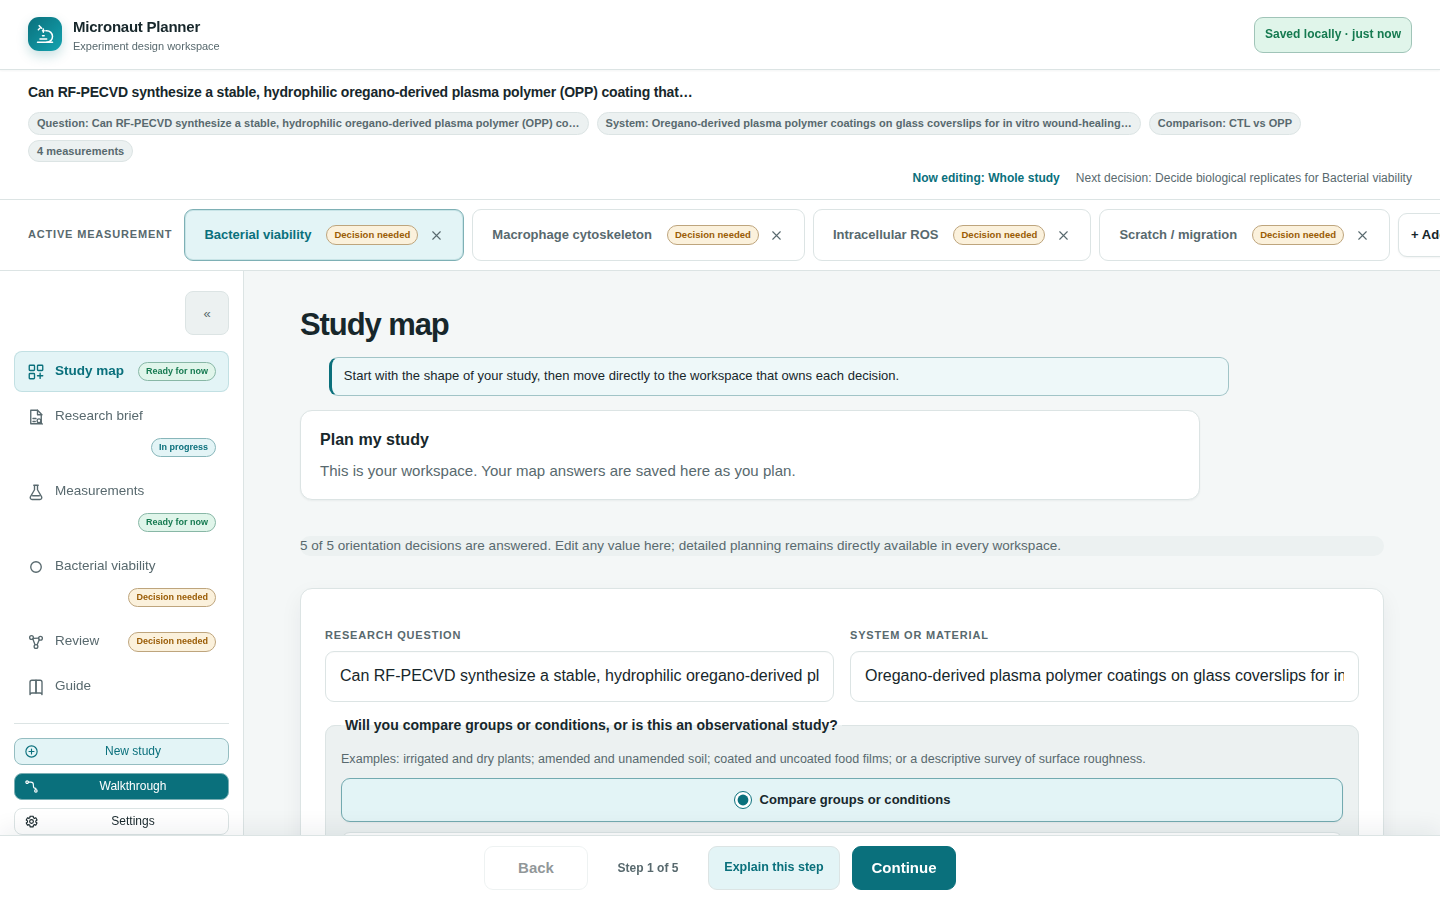
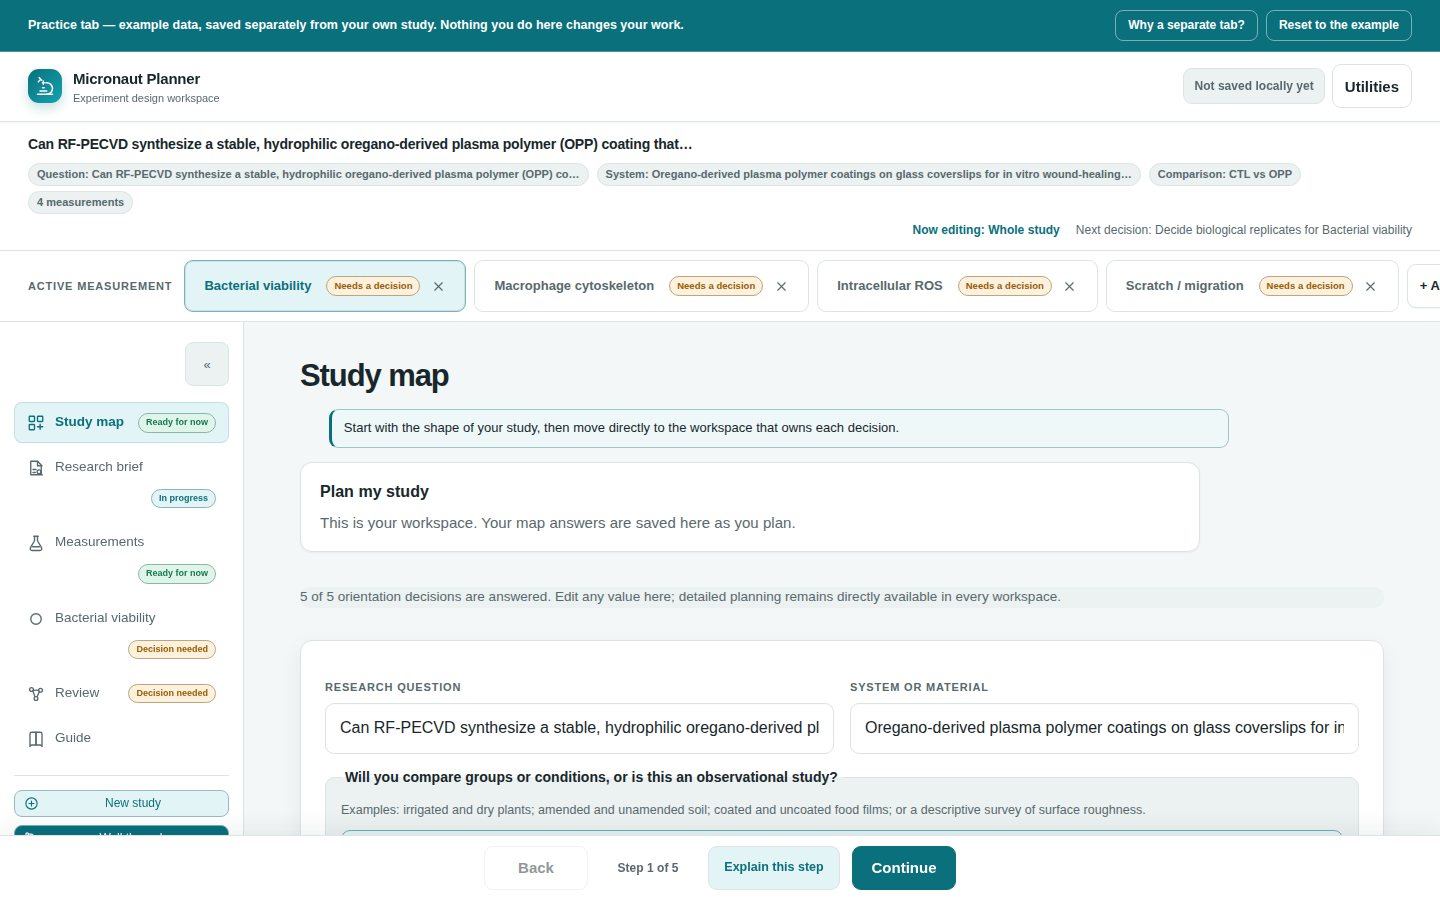
docs: regenerate reference screenshots from the practice tab
The capture tool now runs against ?demo=1, which is where the example study
lives, so all eleven reference images are recaptured from there. Every one
carries the practice-tab banner across the top. That is not tooling noise:
the example only ever opens in that tab now, so it is what a reader
following the manual actually sees.

Regenerating surfaced a real wart, which is fixed here rather than
photographed: inside the practice tab, Study map still offered "Explore a
completed example" -- inviting the reader to open a practice tab while
standing in one, looking at the very example it offered to show them. It
sat in the middle of the first capture. The Utilities menu item was gated
for exactly this when the practice tab landed; this card was missed.
homeStep.render now takes the same injected isSandbox that renderShell
does and skips the card there.

Covered by a render-level test, which is a departure this file's header
explains it avoids -- every other test here drives the exported helpers
directly because render() also builds a real Study map. The gate lives in
render() itself, so there is nowhere else to observe it, and the DOM stub
carries createStudyMap fine with an emptyExperiment() store.
Mutation-tested: removing the gate fails it.

Two stale docs corrected while here:
- docs/images/README.md still said images were captured by clicking Study
  map's "Open the example study" link, which has not existed since the
[…]

diff --git a/web/tests/homeStep.test.js b/web/tests/homeStep.test.js
@@ -11,7 +11,9 @@
 // (one-concern tests).
 import { test } from 'node:test';
 import assert from 'node:assert/strict';
-import { appendGuidedEntry, appendExampleLink } from '../src/ui/steps/home.js';
+import { appendGuidedEntry, appendExampleLink, homeStep } from '../src/ui/steps/home.js';
+import { createStore } from '../src/core/store.js';
+import { emptyExperiment } from '../src/core/schema.js';
 import { createDomStub } from './domStub.js';
 
 function withHomeContainer(callback) {
@@ -234,6 +236,44 @@ test('the example card opens the practice tab rather than replacing the study', 
     // study open in this tab.
     assert.deepEqual(opened, ['?demo=1']);
   });
+});
+
+test('the example card is offered in your own tab and hidden inside the practice tab', () => {
+  // Driven through homeStep.render rather than appendExampleLink directly --
+  // unlike every other test in this file, which deliberately avoids render()
+  // because it also builds a real Study map. The gate under test lives in
+  // render() itself, so there is nowhere else to observe it, and the stub
+  // turns out to carry createStudyMap fine with an emptyExperiment() store.
+  //
+  // The bug: the practice tab kept offering "Explore a completed example",
+  // inviting the reader to open a practice tab while standing in one, looking
+  // at the very example it offered to show them. The Utilities menu item was
+  // gated for this; this card was missed.
+  const render = (isSandbox) => {
+    const { document: fakeDocument, install, restore } = createDomStub();
+    install();
+    try {
+      const main = fakeDocument.createElement('main');
+      homeStep.render(main, createStore(emptyExperiment()), {
+        router: { navigate: () => {}, current: () => 'home' },
+        onOpenExampleTab: () => {},
+        isSandbox,
+      });
+      return main.querySelectorAll('.home-card-title').map((el) => el.textContent);
+    } finally {
+      restore();
+    }
+  };
+
+  assert.ok(render(false).includes('Explore a completed example'), 'your own tab offers the example');
+  assert.equal(
+    render(true).includes('Explore a completed example'),
+    false,
+    'the practice tab must not offer to open the page you are already on'
+  );
+  // The walkthrough card survives in both -- this gate is about the example
+  // entry point only, not about emptying the page.
+  assert.ok(render(true).some((t) => /walkthrough/i.test(t)), 'the walkthrough card stays');
 });
 
 test('the example card is absent when no opener is supplied', () => {

diff --git a/web/src/ui/steps/home.js b/web/src/ui/steps/home.js
@@ -10,6 +10,7 @@
 //
 // All lifecycle writes remain callbacks owned by main.js.
 import { isExampleOrigin } from '../../core/appController.js';
+import { IS_SANDBOX } from '../../core/storageScope.js';
 import { openInNewTab, SANDBOX_URL } from '../newTab.js';
 import { createIcon } from '../icons.js';
 import { createStudyMap } from '../studyMap.js';
@@ -243,7 +244,10 @@ export const homeStep = {
     // appendGuidedEntry) so both stay simple "callback missing => render
     // nothing" functions, while every real render of this page still gets a
     // working opener with no wiring required from main.js.
-    const { router, onOpenExampleTab = openInNewTab } = options;
+    // isSandbox injected (defaulting to the real flag) the same way
+    // ui/shell.js takes it, so both branches stay drivable from the DOM
+    // stub without a real location.search to resolve against.
+    const { router, onOpenExampleTab = openInNewTab, isSandbox = IS_SANDBOX } = options;
     main.textContent = '';
     const heading = document.createElement('h1');
     heading.className = 'step-heading';
@@ -266,7 +270,14 @@ export const homeStep = {
     // was. It sits directly under "Plan my study" so the two read as the pair
     // of choices they actually are: plan your own, or go look at a finished
     // one. Everything that follows the map stays after the map.
-    appendExampleLink(main, onOpenExampleTab);
+    // Hidden inside the practice tab itself, where it would invite you to
+    // open a practice tab while you are standing in one, looking at the very
+    // example it offers to show you. Same reasoning as the Utilities menu
+    // item ui/shell.js hides there; this card was missed when that one was
+    // gated, and regenerating the manual's screenshots is what surfaced it --
+    // the card sat in the middle of every practice-tab capture offering the
+    // reader the page they were already on.
+    if (!isSandbox) appendExampleLink(main, onOpenExampleTab);
 
     // This controller owns map input, persistence calls, and deterministic
     // next-decision routing. Home only chooses when the map is revealed.

diff --git a/web/manual/saving-privacy.html b/web/manual/saving-privacy.html
@@ -72,7 +72,7 @@
 
       <section>
         <figure class="shot">
-          <img src="images/10-settings-storage.png" alt="The Settings screen, showing Download project backup, Import project backup, Start a blank study and Clear all stored data buttons, with a note explaining what clearing removes." loading="lazy"
+          <img src="images/10-settings-storage.png" alt="The Settings screen, showing Project backup, Import project backup, Start a blank study and Clear all stored data buttons, with a note explaining what clearing removes and that it applies to the tab you run it from." loading="lazy"
                onerror="this.closest('.shot').classList.add('pending')">
           <div class="ph">Snapshot pending — the Settings screen's backup and storage controls.</div>
           <figcaption><strong>Settings</strong> gathers every storage action in one row: the two backup actions, a blank start, and the one destructive control, each with its consequences written next to it.</figcaption>

diff --git a/docs/images/README.md b/docs/images/README.md
@@ -1,10 +1,18 @@
 # Screenshots
 
 Reference screenshots of Micronaut Planner, captured against the shipped
-example study (the oregano-plasma-coating wound-healing study, opened via
-Study map's own "Open the example study" link -- see
-`web/src/core/defaultStudy.js`). All images are 1440px wide, light theme
-except the last.
+example study (the oregano-plasma-coating wound-healing study -- see
+`web/src/core/defaultStudy.js`).
+
+Captured in the PRACTICE TAB (`index.html?demo=1`), which is where the
+example lives now: the app seeds it there at boot against its own set of
+saved work, so there is no link to click and no risk of a capture run
+touching a real study. That is why every image carries the practice-tab
+banner across the top -- it is not an artefact of the tooling, it is what a
+reader following the manual actually sees, since the example only ever opens
+in that tab. See `web/src/core/storageScope.js`.
+
+All images are 1440px wide, light theme except the last.
 
 Regenerate all of them with:
 
